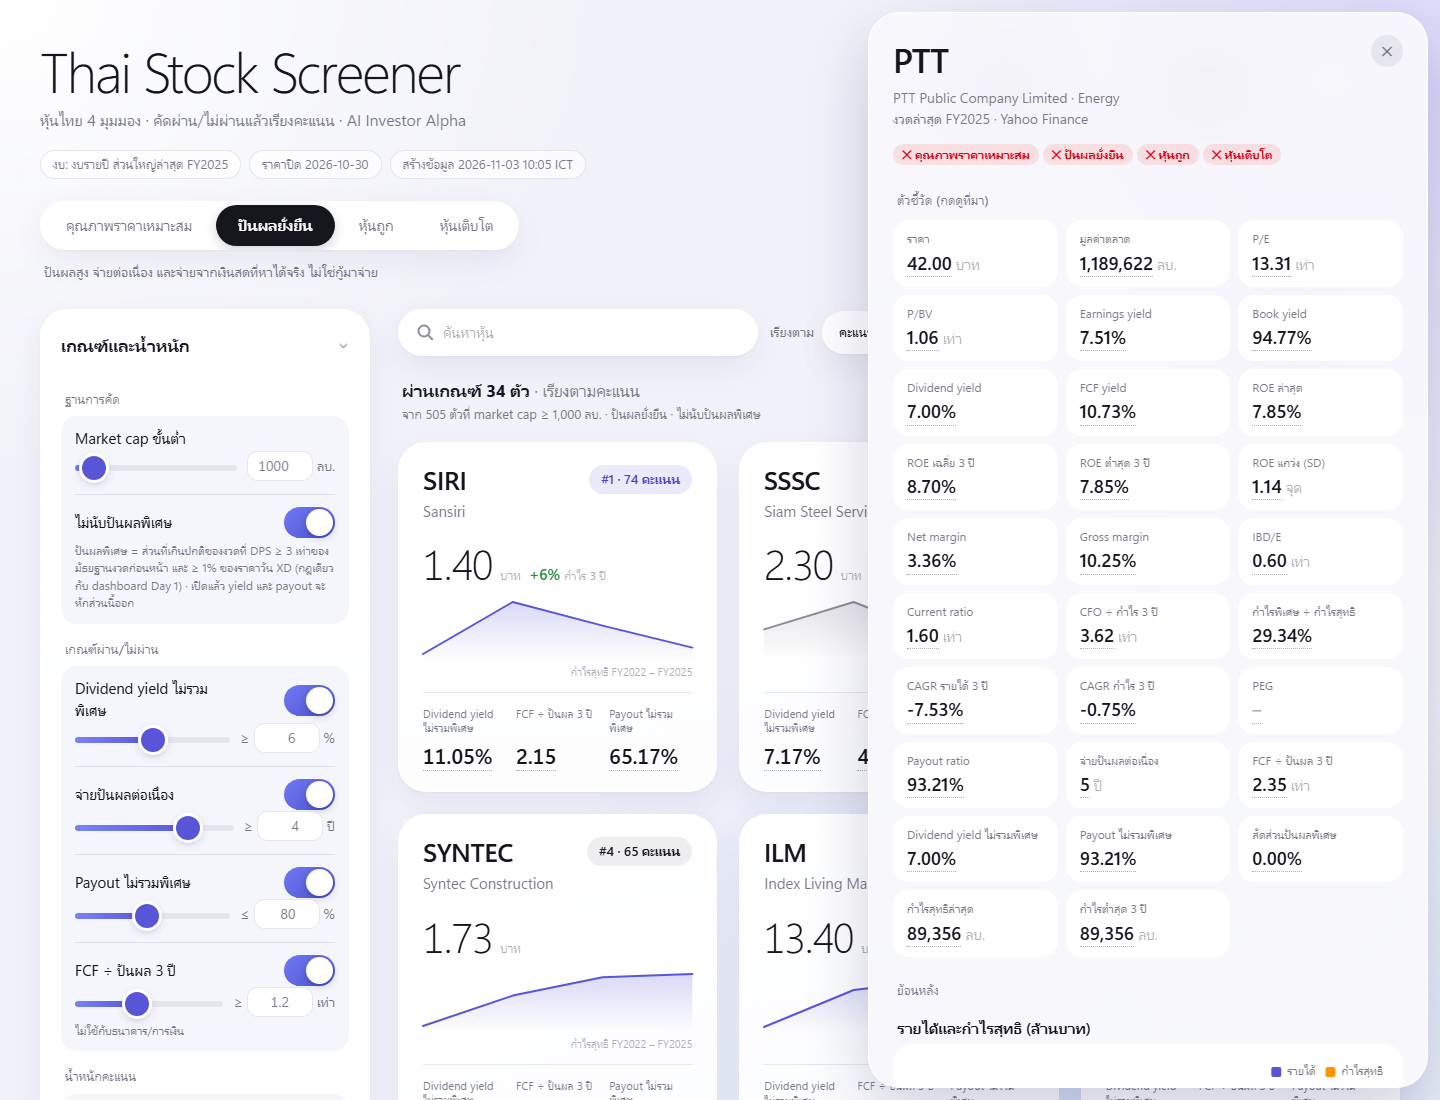
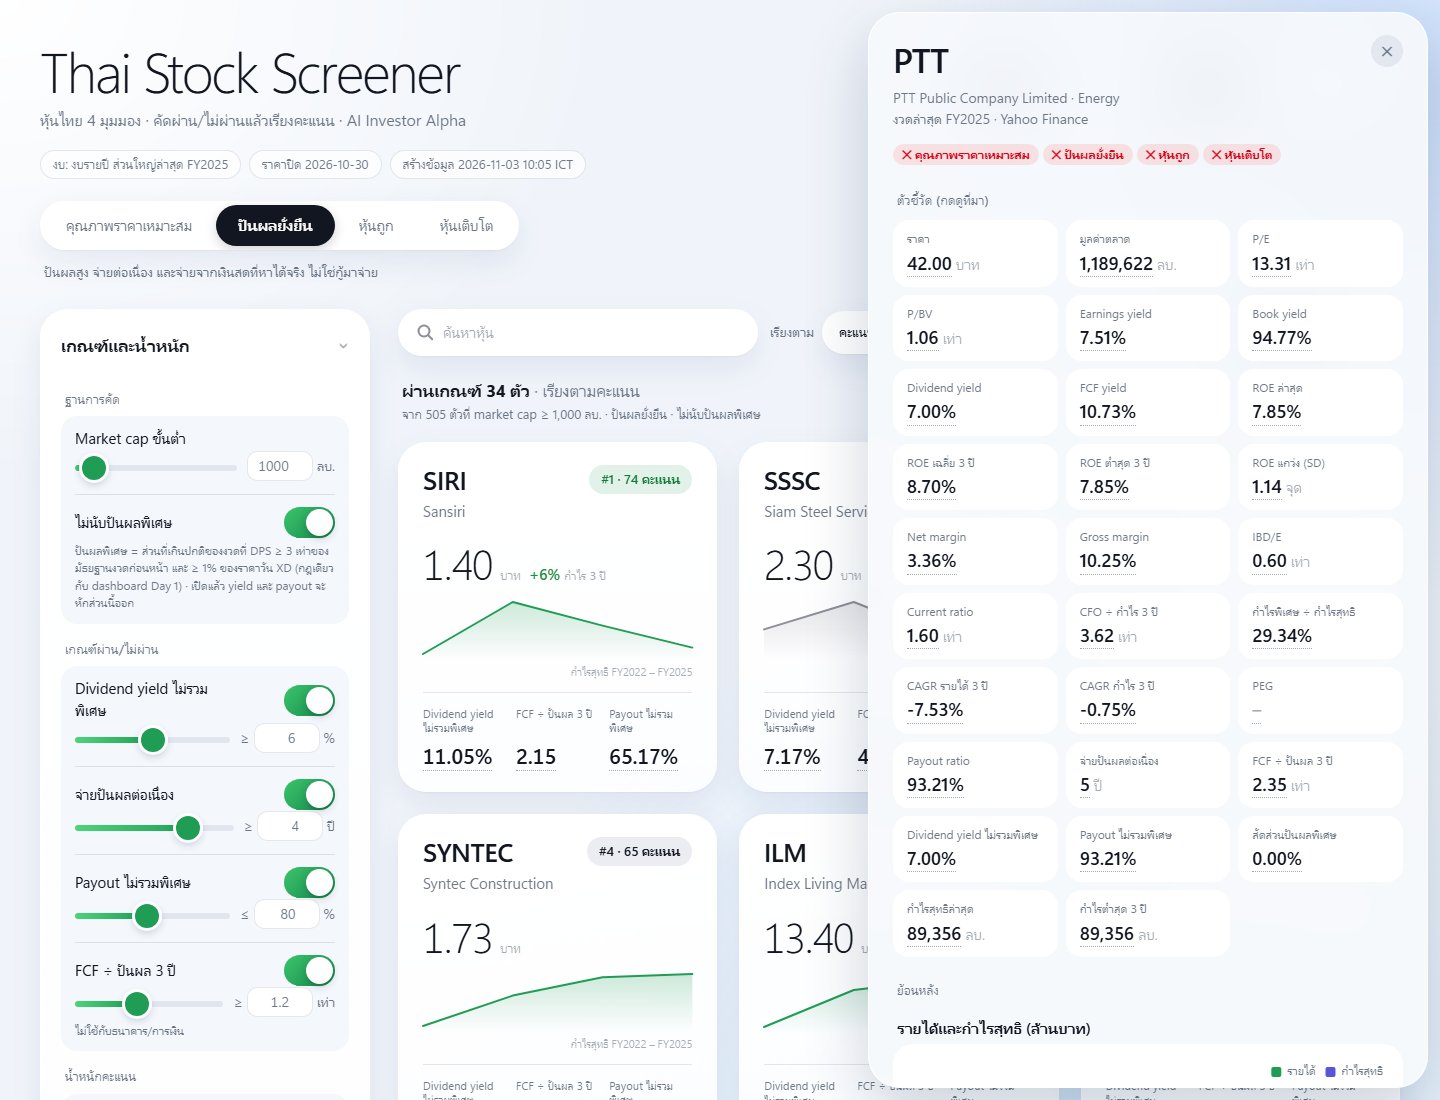
รอบ 10: ปุ่มสีเขียวบนพื้นไล่สีฟ้า

diff --git a/output/style.css b/output/style.css
@@ -1,76 +1,76 @@
-/* Thai Stock Screener — การ์ดขาวโค้งมนบนพื้นไล่สีม่วงอ่อน · ปุ่มเลือกเป็นแคปซูลสีเข้ม · เน้นสี indigo
-   สีกราฟ (--series-*) = iOS indigo + orange ผ่านตัวตรวจสีสำหรับคนตาบอดสีแล้ว (ดู PROJECT_MEMORY.md) */
+/* Thai Stock Screener — การ์ดขาวโค้งมนบนพื้นไล่สีฟ้าอ่อน · ปุ่มเลือกเป็นแคปซูลสีเข้ม · ปุ่มและสีเน้นเป็นสีเขียว
+   สีกราฟ (--series-*) = เขียว + iOS indigo ผ่านตัวตรวจสีสำหรับคนตาบอดสีแล้ว (ดู PROJECT_MEMORY.md) */
 :root {
   color-scheme: light;
-  --bg: #f1f2f9;
+  --bg: #f0f4fa;
   --bg-hi: rgba(255, 255, 255, .95);
-  --bg-tint-1: rgba(150, 140, 255, .24);
-  --bg-tint-2: rgba(120, 170, 255, .18);
+  --bg-tint-1: rgba(90, 160, 255, .24);
+  --bg-tint-2: rgba(120, 200, 255, .20);
   --surface: #ffffff;
-  --surface-2: #f5f6fb;
+  --surface-2: #f4f7fb;
   --card: linear-gradient(180deg, rgba(255, 255, 255, .98), rgba(255, 255, 255, .84));
   --card-edge: rgba(255, 255, 255, .9);
-  --sheet: rgba(247, 247, 252, .92);
-  --hairline: rgba(60, 60, 90, .12);
-  --text: #15151c;
-  --text-2: rgba(50, 50, 70, .66);
-  --text-3: rgba(50, 50, 70, .40);
-  --fill: rgba(120, 120, 150, .13);
-  --ink: #16161d;
+  --sheet: rgba(246, 248, 252, .92);
+  --hairline: rgba(40, 60, 90, .12);
+  --text: #121620;
+  --text-2: rgba(40, 55, 75, .68);
+  --text-3: rgba(40, 55, 75, .42);
+  --fill: rgba(110, 130, 160, .14);
+  --ink: #121620;
   --ink-text: #ffffff;
-  --accent: #5856d6;
-  --accent-2: #7a83f5;
-  --accent-ink: #4644c0;
-  --accent-soft: rgba(88, 86, 214, .12);
-  --accent-grad: linear-gradient(135deg, #7079f2 0%, #4b52d1 100%);
+  --accent: #1f9d55;
+  --accent-2: #4cd47a;
+  --accent-ink: #157a3e;
+  --accent-soft: rgba(31, 157, 85, .13);
+  --accent-grad: linear-gradient(135deg, #3cc46c 0%, #13874a 100%);
   --green-ink: #248a3d;
   --red: #ff3b30;
   --red-ink: #d70015;
   --orange: #ff9500;
   --orange-ink: #c93400;
   --spark-flat: #8e8e98;
-  --series-1: #5856d6;
-  --series-2: #ff9500;
-  --grid: rgba(60, 60, 90, .10);
-  --shadow: 0 1px 2px rgba(30, 30, 80, .04), 0 12px 32px rgba(40, 40, 120, .07);
-  --shadow-hover: 0 2px 4px rgba(30, 30, 80, .05), 0 22px 48px rgba(40, 40, 120, .13);
-  --shadow-lift: 0 24px 64px rgba(30, 30, 80, .20);
+  --series-1: #1f9d55;
+  --series-2: #5856d6;
+  --grid: rgba(40, 60, 90, .10);
+  --shadow: 0 1px 2px rgba(15, 35, 70, .04), 0 12px 32px rgba(20, 50, 110, .08);
+  --shadow-hover: 0 2px 4px rgba(15, 35, 70, .05), 0 22px 48px rgba(20, 50, 110, .14);
+  --shadow-lift: 0 24px 64px rgba(15, 35, 70, .20);
   --radius: 28px;
   --radius-s: 16px;
 }
 @media (prefers-color-scheme: dark) {
   :root:not([data-theme="light"]) {
     color-scheme: dark;
-    --bg: #0a0a12;
-    --bg-hi: rgba(70, 70, 140, .22);
-    --bg-tint-1: rgba(94, 92, 230, .24);
-    --bg-tint-2: rgba(40, 90, 200, .16);
-    --surface: #17171f;
-    --surface-2: #20202a;
-    --card: linear-gradient(180deg, rgba(34, 34, 46, .94), rgba(24, 24, 33, .86));
+    --bg: #070c16;
+    --bg-hi: rgba(50, 90, 160, .22);
+    --bg-tint-1: rgba(10, 132, 255, .20);
+    --bg-tint-2: rgba(40, 170, 230, .14);
+    --surface: #131821;
+    --surface-2: #1b222d;
+    --card: linear-gradient(180deg, rgba(30, 36, 48, .94), rgba(20, 25, 34, .86));
     --card-edge: rgba(255, 255, 255, .07);
-    --sheet: rgba(18, 18, 26, .92);
-    --hairline: rgba(160, 160, 200, .16);
-    --text: #f4f4f8;
-    --text-2: rgba(225, 225, 240, .64);
-    --text-3: rgba(225, 225, 240, .36);
-    --fill: rgba(130, 130, 160, .22);
+    --sheet: rgba(13, 17, 25, .92);
+    --hairline: rgba(160, 180, 210, .15);
+    --text: #f2f5fa;
+    --text-2: rgba(220, 228, 240, .64);
+    --text-3: rgba(220, 228, 240, .36);
+    --fill: rgba(130, 145, 170, .22);
     --ink: #f2f2f7;
-    --ink-text: #0a0a12;
-    --accent: #5e5ce6;
-    --accent-2: #8d93ff;
-    --accent-ink: #b0afff;
-    --accent-soft: rgba(94, 92, 230, .24);
-    --accent-grad: linear-gradient(135deg, #7a82ff 0%, #5150dc 100%);
+    --ink-text: #070c16;
+    --accent: #28a84e;
+    --accent-2: #63e68a;
+    --accent-ink: #5fe08a;
+    --accent-soft: rgba(48, 209, 88, .20);
+    --accent-grad: linear-gradient(135deg, #3ddc6c 0%, #178f47 100%);
     --green-ink: #30d158;
     --red: #ff453a;
     --red-ink: #ff6961;
     --orange: #ff9f0a;
     --orange-ink: #ffb340;
     --spark-flat: #7c7c88;
-    --series-1: #5e5ce6;
-    --series-2: #da7708;
-    --grid: rgba(160, 160, 200, .14);
+    --series-1: #28a84e;
+    --series-2: #5e5ce6;
+    --grid: rgba(160, 180, 210, .13);
     --shadow: 0 1px 2px rgba(0, 0, 0, .3), 0 12px 32px rgba(0, 0, 0, .35);
     --shadow-hover: 0 2px 4px rgba(0, 0, 0, .3), 0 22px 48px rgba(0, 0, 0, .5);
     --shadow-lift: 0 24px 64px rgba(0, 0, 0, .7);
@@ -78,36 +78,36 @@
 }
 :root[data-theme="dark"] {
   color-scheme: dark;
-  --bg: #0a0a12;
-  --bg-hi: rgba(70, 70, 140, .22);
-  --bg-tint-1: rgba(94, 92, 230, .24);
-  --bg-tint-2: rgba(40, 90, 200, .16);
-  --surface: #17171f;
-  --surface-2: #20202a;
-  --card: linear-gradient(180deg, rgba(34, 34, 46, .94), rgba(24, 24, 33, .86));
+  --bg: #070c16;
+  --bg-hi: rgba(50, 90, 160, .22);
+  --bg-tint-1: rgba(10, 132, 255, .20);
+  --bg-tint-2: rgba(40, 170, 230, .14);
+  --surface: #131821;
+  --surface-2: #1b222d;
+  --card: linear-gradient(180deg, rgba(30, 36, 48, .94), rgba(20, 25, 34, .86));
   --card-edge: rgba(255, 255, 255, .07);
-  --sheet: rgba(18, 18, 26, .92);
-  --hairline: rgba(160, 160, 200, .16);
-  --text: #f4f4f8;
-  --text-2: rgba(225, 225, 240, .64);
-  --text-3: rgba(225, 225, 240, .36);
-  --fill: rgba(130, 130, 160, .22);
+  --sheet: rgba(13, 17, 25, .92);
+  --hairline: rgba(160, 180, 210, .15);
+  --text: #f2f5fa;
+  --text-2: rgba(220, 228, 240, .64);
+  --text-3: rgba(220, 228, 240, .36);
+  --fill: rgba(130, 145, 170, .22);
   --ink: #f2f2f7;
-  --ink-text: #0a0a12;
-  --accent: #5e5ce6;
-  --accent-2: #8d93ff;
-  --accent-ink: #b0afff;
-  --accent-soft: rgba(94, 92, 230, .24);
-  --accent-grad: linear-gradient(135deg, #7a82ff 0%, #5150dc 100%);
+  --ink-text: #070c16;
+  --accent: #28a84e;
+  --accent-2: #63e68a;
+  --accent-ink: #5fe08a;
+  --accent-soft: rgba(48, 209, 88, .20);
+  --accent-grad: linear-gradient(135deg, #3ddc6c 0%, #178f47 100%);
   --green-ink: #30d158;
   --red: #ff453a;
   --red-ink: #ff6961;
   --orange: #ff9f0a;
   --orange-ink: #ffb340;
   --spark-flat: #7c7c88;
-  --series-1: #5e5ce6;
-  --series-2: #da7708;
-  --grid: rgba(160, 160, 200, .14);
+  --series-1: #28a84e;
+  --series-2: #5e5ce6;
+  --grid: rgba(160, 180, 210, .13);
   --shadow: 0 1px 2px rgba(0, 0, 0, .3), 0 12px 32px rgba(0, 0, 0, .35);
   --shadow-hover: 0 2px 4px rgba(0, 0, 0, .3), 0 22px 48px rgba(0, 0, 0, .5);
   --shadow-lift: 0 24px 64px rgba(0, 0, 0, .7);
@@ -224,7 +224,7 @@ input[type="checkbox"]::after {
 input[type="checkbox"]:checked { background: var(--accent-grad); }
 input[type="checkbox"]:checked::after { transform: translateX(20px); }
 
-/* slider: รางบาง ส่วนที่เติมไล่สี indigo (--p ตั้งจาก app.js) */
+/* slider: รางบาง ส่วนที่เติมไล่สีเขียว (--p ตั้งจาก app.js) */
 input[type="range"] {
   -webkit-appearance: none; appearance: none; width: 100%; height: 28px; margin: 4px 0 0; background: transparent; cursor: pointer;
 }
@@ -236,11 +236,11 @@ input[type="range"]::-moz-range-track { height: 6px; border-radius: 3px; backgro
 input[type="range"]::-moz-range-progress { height: 6px; border-radius: 3px; background: linear-gradient(90deg, var(--accent-2), var(--accent)); }
 input[type="range"]::-webkit-slider-thumb {
   -webkit-appearance: none; width: 24px; height: 24px; margin-top: -9px; border-radius: 50%; border: 0;
-  background: var(--accent); box-shadow: 0 0 0 3px var(--surface), 0 3px 10px rgba(40, 40, 120, .3);
+  background: var(--accent); box-shadow: 0 0 0 3px var(--surface), 0 3px 10px rgba(20, 50, 110, .3);
 }
 input[type="range"]::-moz-range-thumb {
   width: 24px; height: 24px; border-radius: 50%; border: 0; background: var(--accent);
-  box-shadow: 0 0 0 3px var(--surface), 0 3px 10px rgba(40, 40, 120, .3);
+  box-shadow: 0 0 0 3px var(--surface), 0 3px 10px rgba(20, 50, 110, .3);
 }
 
 .reset {

diff --git a/output/app.js b/output/app.js
@@ -233,7 +233,7 @@
     $("as-of").textContent = `${ds().meta.label} · ราคาปิด ${ds().meta.price_date}`;
   }
 
-  // กราฟเส้นเล็กของกำไร (ใช้กำไรปกติเมื่อเปิดสวิตช์) · สีม่วงเมื่อกำไรงวดล่าสุดสูงกว่างวดแรก ไม่งั้นสีเทา
+  // กราฟเส้นเล็กของกำไร (ใช้กำไรปกติเมื่อเปิดสวิตช์) · สีเขียวเมื่อกำไรงวดล่าสุดสูงกว่างวดแรก ไม่งั้นสีเทา
   function spark(s) {
     const coreNp = core("np_last");
     const ys = coreNp ? s.h.npc : s.h.np;

diff --git a/output/index.html b/output/index.html
@@ -4,8 +4,8 @@
 <meta charset="utf-8">
 <meta name="viewport" content="width=device-width, initial-scale=1">
 <title>Thai Stock Screener</title>
-<meta name="theme-color" content="#eef0fb" media="(prefers-color-scheme: light)">
-<meta name="theme-color" content="#0b0b14" media="(prefers-color-scheme: dark)">
+<meta name="theme-color" content="#eef3fb" media="(prefers-color-scheme: light)">
+<meta name="theme-color" content="#070c16" media="(prefers-color-scheme: dark)">
 <meta name="description" content="คัดหุ้นไทย 4 มุมมอง: คุณภาพราคาเหมาะสม · ปันผลยั่งยืน · หุ้นถูก · หุ้นเติบโต">
 <link rel="icon" href="data:,">
 <script>

diff --git a/prompts.md b/prompts.md
@@ -247,3 +247,27 @@ save ก่อน(ขึ้น github ด้วยนะ)
   - เปลี่ยนสีกราฟจากฟ้าเป็น indigo ให้เข้ากับสีเน้นใหม่ ยังเป็นสีระบบ iOS (systemIndigo) ตามรอบ 6 และรันตัวตรวจสีใหม่ก่อนใช้
   - การ์ดแสดงทีละ 12 ใบ เพราะเปิด "แสดงตัวที่ไม่ผ่าน" แล้วมีถึง 505 ตัว ถ้าวาดครบทีเดียวหน้าจะยาวและช้า
 - **ขั้นต่อไป:** รอคอมเมนต์ผู้สอนใน Issues และคำตอบ `help.md` ข้อ 1 และ 3
+
+---
+
+## รอบ 10 · 2026-11-03 04:59
+
+- **ทำอะไร:** เปลี่ยนชุดสีจากรอบ 9: ปุ่มและสีเน้น (ปุ่ม "แสดงเพิ่ม", สวิตช์, slider, ป้ายคะแนน ≥ 70, กราฟเส้นบนการ์ด) จากม่วง indigo เป็น**เขียว** · พื้นหลังไล่สีจากม่วงอ่อนเป็น**ฟ้า** (โหมดมืดเป็นกรมท่ามีแสงฟ้า) · ตัวอักษร เส้นแบ่ง และเงาปรับเป็นโทนเทาอมฟ้า · สีกราฟในแผงรายตัวเป็นเขียว + indigo · ถ่ายภาพหน้าจอ 3 ภาพใหม่
+- **เครื่องมือ / model:** Claude Desktop (แท็บ Code) · Claude Opus 5.5 · Edge headless · ตัวตรวจสี dataviz
+- **Prompt ที่ใช้:**
+
+```text
+gradient+ปุ่ม สีเขียว แทนสีม่วง
+```
+
+```text
+เปลี่ยนๆ ปุ่มเขียว
+gradient สีฟ้า
+```
+
+- **ผลที่ได้:** ครั้งแรกเปลี่ยนเป็นเขียวทั้งพื้นหลังและปุ่ม ผู้ใช้ดูแล้วขอแก้เป็นปุ่มเขียวบนพื้นฟ้า · แก้แค่ค่าสีด้านบนของ `style.css` (ไม่ต้องแตะโค้ดส่วนอื่น เพราะทุกจุดอ้างชื่อสีกลาง) · สีกราฟผ่านตัวตรวจทุกข้อทั้งสว่างและมืด ไม่มีคำเตือนเหลือ
+- **ตัดสินใจอะไร และเพราะอะไร:**
+  - สีปุ่มและพื้นหลังเป็นความชอบของผู้ใช้ตาม prompt ด้านบน
+  - กราฟในแผงรายตัวใช้คู่ "เขียว + indigo" แทน "เขียว + ส้ม" เพราะตัวตรวจสีวัดได้ว่าเขียวกับส้มห่างกันแค่ 8.1 สำหรับคนตาบอดสีแดง-เขียว (เกือบชนเกณฑ์ 8) ส่วนเขียวกับ indigo ห่าง 26.8 และทั้งสองสีตัดกับพื้นขาวพอ (รอบก่อนสีส้มติดคำเตือนข้อนี้)
+  - โหมดมืดใช้เขียว #28A84E สำหรับกราฟแทนเขียว iOS #30D158 เพราะ #30D158 สว่างเกินช่วงที่ตัวตรวจกำหนดสำหรับพื้นมืด ส่วนปุ่มยังใช้เขียวสว่างได้
+- **ขั้นต่อไป:** รอคอมเมนต์ผู้สอนใน Issues และคำตอบ `help.md` ข้อ 1 และ 3
